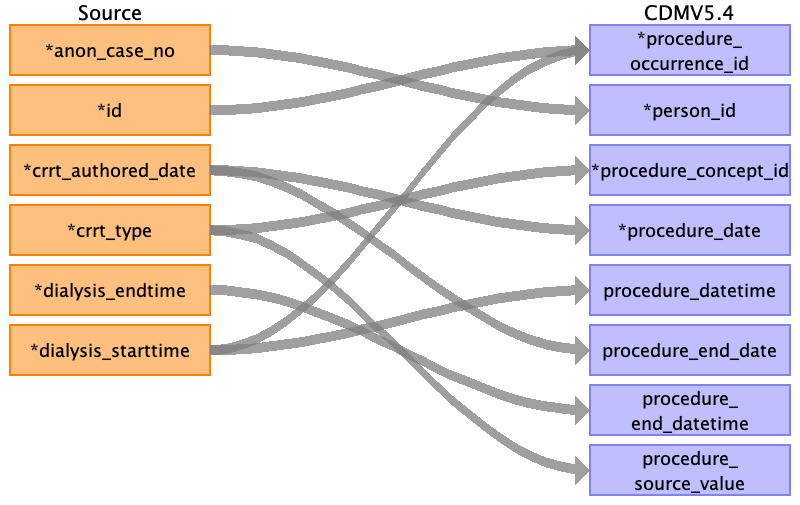
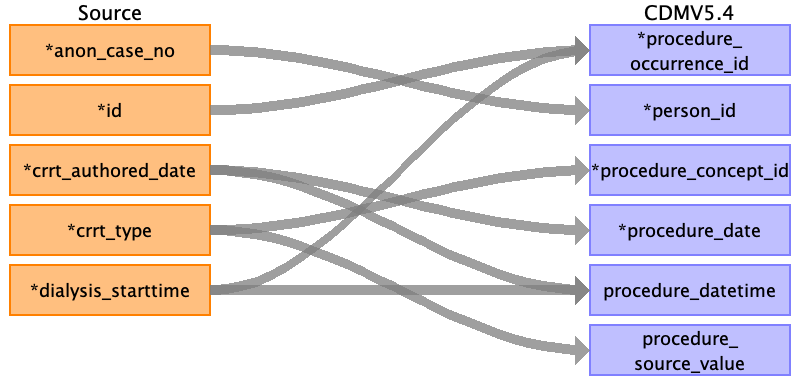
Add procedure_occurrence

diff --git a/procedure_occurrence.md b/procedure_occurrence.md
@@ -1,0 +1,48 @@
+## Table name: procedure_occurrence
+
+### Reading from intra_op__operation
+
+![](md_files/image12.png)
+
+| Destination Field | Source field | Logic | Comment field |
+| --- | --- | --- | --- |
+| procedure_occurrence_id | operation_startdate<br>id |  |  |
+| person_id | anon_case_no | Joined with PERSON.PERSON_SOURCE_VALUE for PERSON.PERSON_ID |  |
+| procedure_concept_id | procedure_code | Mapped with table from Vocab team |  |
+| procedure_date | operation_startdate |  |  |
+| procedure_datetime | operation_starttime<br>operation_startdate |  | concatenate from two fields |
+| procedure_end_date | operation_enddate |  |  |
+| procedure_end_datetime | operation_enddate<br>operation_endtime |  | concatenate from two fields |
+| procedure_type_concept_id |  |  | 32879 for Registry |
+| modifier_concept_id |  |  |  |
+| quantity |  |  |  |
+| provider_id | anon_surgeon_name | Find provider_id from provider table |  |
+| visit_occurrence_id | session_id |  |  |
+| visit_detail_id |  |  |  |
+| procedure_source_value | procedure_code |  |  |
+| procedure_source_concept_id | procedure_code | Mapped with table from Vocab team |  |
+| modifier_source_value |  |  |  |
+
+### Reading from post_op__renal
+
+![](md_files/image13.png)
+
+| Destination Field | Source field | Logic | Comment field |
+| --- | --- | --- | --- |
+| procedure_occurrence_id | id<br>dialysis_starttime |  |  |
+| person_id | anon_case_no |  |  |
+| procedure_concept_id | crrt_type |  |  |
+| procedure_date | crrt_authored_date |  |  |
+| procedure_datetime | dialysis_starttime<br>crrt_authored_date |  | concatenate from two fields |
+| procedure_end_date |  |  |  |
+| procedure_end_datetime |  |  | concatenate from two fields |
+| procedure_type_concept_id |  |  | 32879 for Registry |
+| modifier_concept_id |  |  |  |
+| quantity |  |  |  |
+| provider_id |  |  |  |
+| visit_occurrence_id |  |  |  |
+| visit_detail_id |  |  |  |
+| procedure_source_value | crrt_type |  |  |
+| procedure_source_concept_id |  |  |  |
+| modifier_source_value |  |  |  |
+

diff --git a/index.md b/index.md
@@ -14,6 +14,8 @@
 
 [condition_occurrence](condition_occurrence.md)
 
+[procedure_occurrence](procedure_occurrence.md)
+
 [measurement](measurement.md)
 
 [observation](observation.md)
